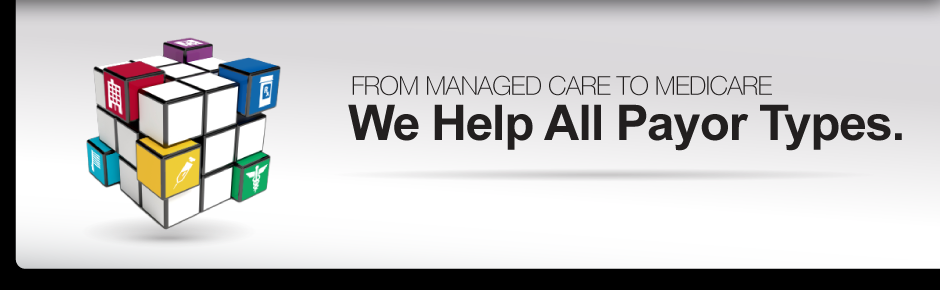
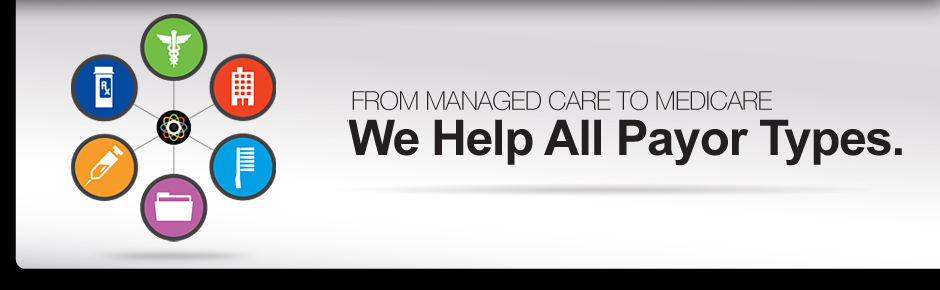
nucleus bridge page

Changed region(s): [[0.3702, 0.2483, 0.9564, 0.6828], [0.0617, 0.031, 0.3085, 0.8379], [0.1234, 0.869, 0.2468, 0.9]]

diff --git a/public/stylesheets/application.css b/public/stylesheets/application.css
@@ -783,6 +783,23 @@ img.home_banner {
   height: 50px;
   text-indent: -3000em;
 }
+.nucleus_banner .banner_copy {
+  position: absolute;
+  /*  float: left;
+  top: 30px;
+  left: 30px;
+  width: 350px;*/
+  text-indent: -999em;
+}
+.nucleus_banner_link {
+  bottom: 194px;
+  display: block;
+  height: 35px;
+  left: 250px;
+  position: absolute;
+  text-indent: -999em;
+  width: 150px;
+}
 .meet_nucleus {
   background: url('../images/banners/inner_banners/meet_nucleus.png') no-repeat;
 }
@@ -3025,8 +3042,55 @@ p.sector_big_text {
   background: url('../images/benefit_grid_images.jpg') 0px -2040px no-repeat;
 }
 /*******Nucleus Pages**********/
-.nucleus_content_wrap {
+.main_content .nucleus_content_wrap.grid_12 {
+  background: #1A1A1A;
+  padding: 10px;
   text-align: left;
+  width: 920px;
+}
+.element_box {
+  border: 3px solid #666666;
+  float: left;
+  height: 196px;
+  margin: 14px;
+  position: relative;
+  width: 196px;
+}
+.element_box .inner_element_box {
+  position: relative;
+  float:left;
+  width: 100%;
+  height: 100%;
+  background: #000;
+}
+.inner_element_box.yellow {
+  background: url(../images/nucleus_content_blocks-yellow.png) 0px 0px no-repeat;
+}
+.inner_element_box.green {
+  background: url(../images/nucleus_content_blocks-green.png) 0px 0px no-repeat;
+}
+.inner_element_box.blue {
+  background: url(../images/nucleus_content_blocks-blue.png) 0px 0px no-repeat;
+}
+.inner_element_box.red {
+  background: url(../images/nucleus_content_blocks-red.png) 0px 0px no-repeat;
+}
+.nucleus_content_footer {
+  width: 920px;
+  height: 60px;
+  padding-right: 20px;
+  border-top: 2px solid #5aaa46;
+  float: left;
+  background: #000;
+}
+.nucleus_content_footer a {
+  position: relative;
+  float: right;
+  display: block;
+  width: 300px;
+  height: 60px;
+  background: url(../images/nucleus_content_footer_logo.png) 0px 0px no-repeat;
+  text-indent: -3333em;
 }
 .nucleus_content {
   position: relative;

diff --git a/app/controllers/health_care_controller.rb b/app/controllers/health_care_controller.rb
@@ -70,11 +70,11 @@ class HealthCareController < ApplicationController
   end
   
   def nucleus
-    redirect_to "http://www.get-nucleus.com"
-    # respond_to do |format|
-    #   format.html { render :layout => "nucleus"}
-    #   format.xml  { render :xml => @events }
-    # end
+    # redirect_to "http://www.get-nucleus.com"
+    respond_to do |format|
+      format.html { render :layout => "nucleus"}
+      format.xml  { render :xml => @events }
+    end
   end
   
   def privacy_policy
